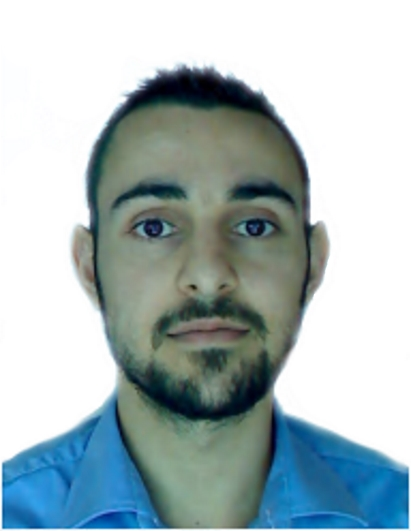
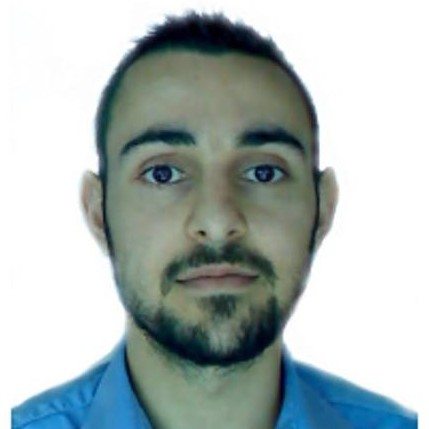
Profile setup

diff --git a/_includes/cv-profile.html b/_includes/cv-profile.html
@@ -1,123 +1,140 @@
 {% assign user = page.user | default: page.users[0] | default: site.user %}
 {% assign cv = site.data.users[user] | default: user %}
 
-  {% if cv.avatar %}
-    <div class="cv._avatar">
-      {% if cv.avatar contains "://" %}
-        {% assign cv.src = cv.avatar %}
-      {% else %}
-        {% assign cv.src = cv.avatar | absolute_url %}
-      {% endif %}
 
-      {% if cv.home %}
-        {% if cv.home contains "://" %}
-          {% assign cv.link = cv.home %}
-        {% else %}
-          {% assign cv.link = cv.home | absolute_url %}
-        {% endif %}
-        <a href="{{ cv.link }}">
-          <img src="{{ cv.src }}" alt="{{ cv.name }}"">
-        </a>
-      {% else %}
-        <img src="{{ cv.avatar }}" alt="{{ cv.name }}"">
-      {% endif %}
-    </div>
-  {% endif %}
+<div id="cv_avatar">
 
-  <div class="cv._content">
-    {% if cv.home %}
-      <a href="{{ cv.link }}"><h3 class="cv._name" itemprop="name">{{ cv.name }}</h3></a>
-    {% else %}
-      <h3 class="cv._name" itemprop="name">{{ cv.name }}</h3>
-    {% endif %}
-    {% if cv.bio %}
-      <p class="cv._bio" itemprop="description">
-        {{ cv.bio }}
-      </p>
-    {% endif %}
+{% if cv.avatar %}
+  <div id="avatar">
+      <img src="{{ cv.avatar }}" alt="{{ cv.name }}"">
   </div>
+{% endif %}
+    <div id="cv_name">{{ cv.name }}</div>
+    <p id="cv_bio">{{ cv.bio }}</p>
+</div>
 
-  <div class="cv._urls-wrapper">
-    <button class="btn btn--inverse">{{ site.data.ui-text[site.locale].follow_label | remove: ":" | default: "Follow" }}</button>
-    <ul class="cv._urls social-icons">
 
-  <!-- Profile -->
+<div id="cv_profile">
+  <div id="cv_contact">
 
-      {% if cv.uri %}
-        <li>
-          <a href="{{ cv.uri }}" itemprop="url">
-            <i class="fas fa-fw fa-link" aria-hidden="true"></i> {{ cv.uri }}
-          </a>
-        </li>
-      {% endif %}
+    <div class="cv_profile_h">Contact</div>
 
-      {% if cv.email %}
-        <li>
-          <a href="mailto:{{ cv.email }}">
-            <meta itemprop="email" content="{{ cv.email }}" />
-            <i class="fas fa-fw fa-envelope-square" aria-hidden="true"></i> {{ cv.email }}
-          </a>
-        </li>
-      {% endif %}
+    <!-- Profile -->
+    {% if cv.email_user %}
+      <div class="cv_profile_detail">
+        <div class="cv_icon">
+          <i class="fas fa-envelope-square"></i>
+        </div>
+        <div class="cv_profile_name">
+          {{ cv.email_user }} <i class="fas fa-at" aria-hidden="true"></i> {{ cv.email_domain }}
+        </div>
+      </div>
+    {% endif %}
 
-      {% if cv.telegram %}
-        <li>
-          <a href="https://t.me/{{ cv.telegram }}" itemprop="sameAs">
-            <i class="fab fa-fw fa-telegram" aria-hidden="true"></i>{{ cv.telegram }}
-          </a>
-        </li>
-      {% endif %}
 
-      {% if cv.linkedin %}
-        <li>
-          <a href="https://www.linkedin.com/in/{{ cv.linkedin }}" itemprop="sameAs">
-            <i class="fab fa-fw fa-linkedin" aria-hidden="true"></i>{{ cv.linkedin }}
-          </a>
-        </li>
-      {% endif %}
+    {% for sec_id in cv.links %}
+      {% assign account = cv[sec_id] %}
+      <div class="cv_profile_detail">
+        <a href="{{account.url}}{{account.name}}">
+          <div class="cv_icon">
+            <i class="fab fa-{{account.icon}}"></i>
+          </div>
+          <div class="cv_profile_name">
+            {{account.name}}
+          </div>
+        </a>
+      </div>
+    {% endfor %}
 
-      {% if cv.github %}
-        <li>
-          <a href="https://github.com/{{ cv.github }}" itemprop="sameAs">
-            <i class="fab fa-fw fa-github" aria-hidden="true"></i>{{ cv.github }}
-          </a>
-        </li>
-      {% endif %}
+    {% if cv.link %}
+      <div class="cv_profile_detail">
+        <a href="https://{{ cv.link }}">
+          <div class="cv_icon">
+            <i class="fas fa-link"></i>
+          </div>
+          <div class="cv_profile_name">
+             {{ cv.link }}
+          </div>
+        </a>
+      </div>
+    {% endif %}
+
+
+
 
   <!-- Additional Info -->
 
-
-
-    </ul>
-    <ul class="cv._urls additional-info">
+  </div>
+  <div id="cv_info">
+    <div class="cv_profile_h">Info</div>
 
       {% if cv.location %}
-        <li itemprop="homeLocation" itemscope itemtype="http://schema.org/Place">
-          <i class="fas fa-fw fa-map-marker-alt" aria-hidden="true"></i> <span itemprop="name">{{ cv.location }}</span>
-        </li>
-      {% endif %}
-
-      {% if cv.nationality %}
-        <li>
-          <i class="fas fa-fw fa-flag" aria-hidden="true"></i> <span itemprop="name">{{ cv.nationality }}</span>
-          <span class="flag-icon flag-icon-{{cv.flag}}"></span>
-        </li>
+        <div class="cv_profile_detail">
+          <div class="cv_icon">
+            <i class="fas fa-map-marker-alt"></i>
+          </div>
+          <div class="cv_profile_name">
+            {{ cv.location }}
+          </div>
+        </div>
       {% endif %}
 
       {% if cv.born %}
-        <li>
-          <i class="fas fa-fw fa-birthday-cake" aria-hidden="true"></i> <span itemprop="name">{{ cv.born }}</span>
-        </li>
+        <div class="cv_profile_detail">
+          <div class="cv_icon">
+            <i class="fas fa-birthday-cake"></i>
+          </div>
+          <div class="cv_profile_name">
+            <div id="age"></div>
+          </div>
+        </div>
+      {% endif %}
+      <!-- Script to get the Age using moment.js -->
+      <script>
+      $("#age").replaceWith(moment().diff(moment('{{cv.born}}', 'YYYY-MM-DD'), 'years')+ " Years");
+      </script>
+
+      {% if cv.nationality %}
+        {% for sec_id in cv.nationality %}
+          {% assign nat = cv[sec_id] %}
+          <div class="cv_profile_detail">
+              <div class="cv_icon">
+                <i class="fas fa-flag"></i>
+              </div>
+              <div class="cv_profile_name">
+                {{nat.name}} <span class="flag-icon flag-icon-{{nat.flag}}"></span>
+              </div>
+          </div>
+        {% endfor %}
       {% endif %}
 
-      {% if cv.driving %}
-        <li>
-          <i class="fas fa-fw fa-car" aria-hidden="true"></i> <span itemprop="name">{{ cv.driving }}</span>
-        </li>
+      {% if cv.languages %}
+        {% for sec_id in cv.languages %}
+          {% assign lan = cv[sec_id] %}
+          <div class="cv_profile_detail">
+              <div class="cv_icon">
+                <i class="fas fa-language"></i>
+              </div>
+              <div class="cv_profile_name">
+                {{lan.name}} <span class="flag-icon flag-icon-{{lan.flag}}"></span>
+              </div>
+          </div>
+        {% endfor %}
+      {% endif %}
+
+      {% if cv.roles %}
+        {% for rol in cv.roles %}
+          <div class="cv_profile_detail">
+              <div class="cv_icon">
+                <i class="fas fa-tags"></i>
+              </div>
+              <div class="cv_profile_name">
+                {{rol}}
+              </div>
+          </div>
+        {% endfor %}
       {% endif %}
 
 
-    </ul>
-  </div>
-
+    </div>
 </div>

diff --git a/_sass/jekyllcv/_layout.scss b/_sass/jekyllcv/_layout.scss
@@ -32,12 +32,37 @@
   text-align: right;
 }
 
-  .alignleft {
-  	float: left;
-  }
-  .alignright {
-  	float: right;
-  }
+.cv_profile_detail  {
+  font-size: $base-font-size * 0.9;
+}
+
+.cv_icon  {
+  color: $brand-color;
+  margin-left: 10px;
+  margin-right: 10px;
+  float: left;
+}
+
+.cv_profile_name  {
+  float: none;
+}
+
+
+.cv_profile_h {
+  color: $brand-color;
+  font-size: $base-font-size * 1.2;
+  font-weight: 900;
+  margin-top:: 10px;
+  margin-left:: 10px;
+  margin-bottom:: 8px;
+}
+
+.alignleft {
+	float: left;
+}
+.alignright {
+	float: right;
+}
 
   body, h1, h2, h3, h4, h5, h6,
   p, blockquote, pre, hr,
@@ -56,24 +81,73 @@
   }
 
   img:hover {
-    box-shadow: 0 0 2px 1px rgba(0, 140, 186, 0.5);
+    box-shadow: 0 0 2px 1px $brand-color-light;
   }
 
 
 }
 
-.cv._avatar {
+#avatar {
   img {
-    border-radius: 25px;
-    margin-right: 5px;
-    width: 40px;
+    border-radius: 50%;
+    margin-left: 45px;
+    margin-right: 45px;
+    margin-top: 18px;
+    width: 90px;
+    height: 90px;
+    object-fit: cover;
+    border: 2px solid $text-color-light;
     float:left;
-  }
 
+    img:hover {
+      box-shadow: 0 0 2px 1px $text-color-light1;
+    }
+  }
+}
+
+#cv_avatar {
+    background: $text-color-light3;
+    width: 180px;
+    height: 180px;
+    text-align: center;
+    float:left;
+    margin-bottom: 15px;
+}
+
+#cv_profile {
+    background: $text-color-light1;
+    height: 180px;
+    margin-bottom: 15px;
+}
+
+#cv_contact {
+    width: 269.062px;
+    float: left;
+}
+
+#cv_info {
+    width: 269.063px;
+    float:right;
+}
+
+#cv_name {
+  color: $brand-color;
+  font-size: $base-font-size * 2.2;
+  font-weight: 900;
+  padding-top: 8px;
+  padding-bottom: 2px;
+}
+
+#cv_bio {
+  font-size: $base-font-size * 0.9;
 }
 
 
-
+#info_message {
+  background: $text-color-light3;
+    
+  font-size: $base-font-size * 0.9;
+}
 
 /******************************************************************************/
 

diff --git a/_sass/jekyllcv/skins/default.scss b/_sass/jekyllcv/skins/default.scss
@@ -5,6 +5,11 @@ $brand-color-dark:      darken($brand-color, 20%) !default;
 $text-color:            #111111 !default;
 $text-color-light:      lighten($text-color, 30%) !default;
 
+$text-color-light1:      lighten($text-color, 90%) !default;
+$text-color-light3:      lighten($text-color, 70%) !default;
+$text-color-light5:      lighten($text-color, 50%) !default;
+
+
 $link-base-color:       $text-color !default;
 $link-visited-color:    $text-color !default;
 $link-hover-color:      $brand-color-light !default;

diff --git a/_layouts/cv.html b/_layouts/cv.html
@@ -10,6 +10,7 @@ layout: default
   <article class="cv">
       {% if forloop.first == true %}
         {% include cv-profile.html %}
+
       {% endif %}
       {% assign page_id = forloop.index %}
       {% for sec_id in cv.sections %}
